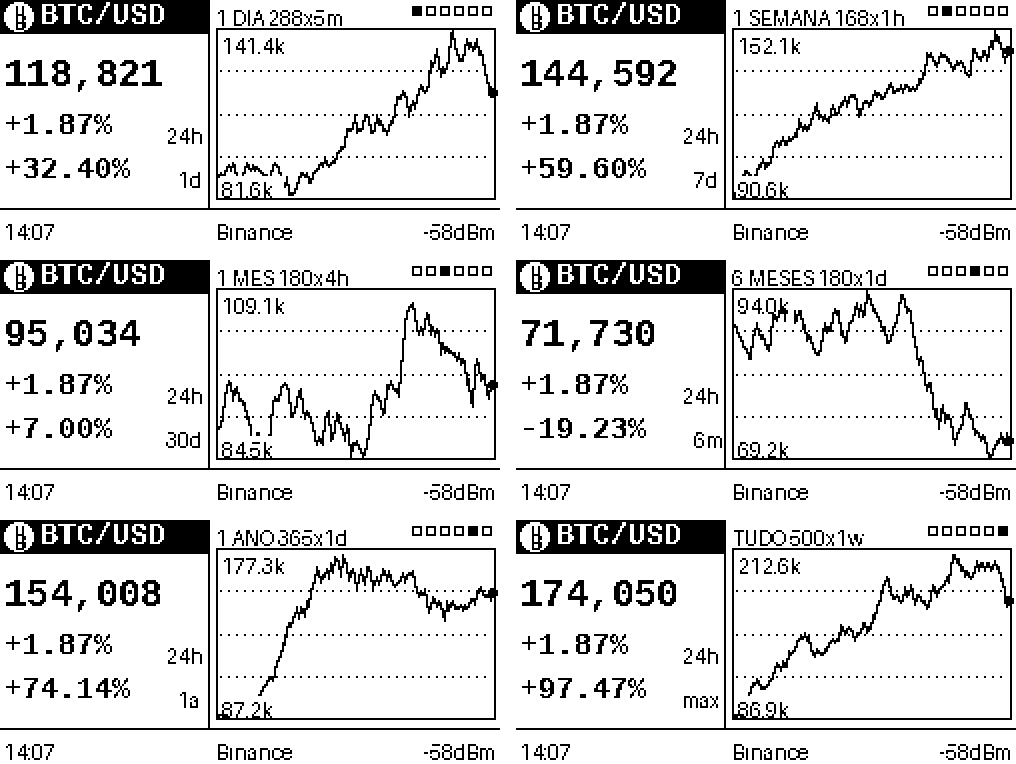
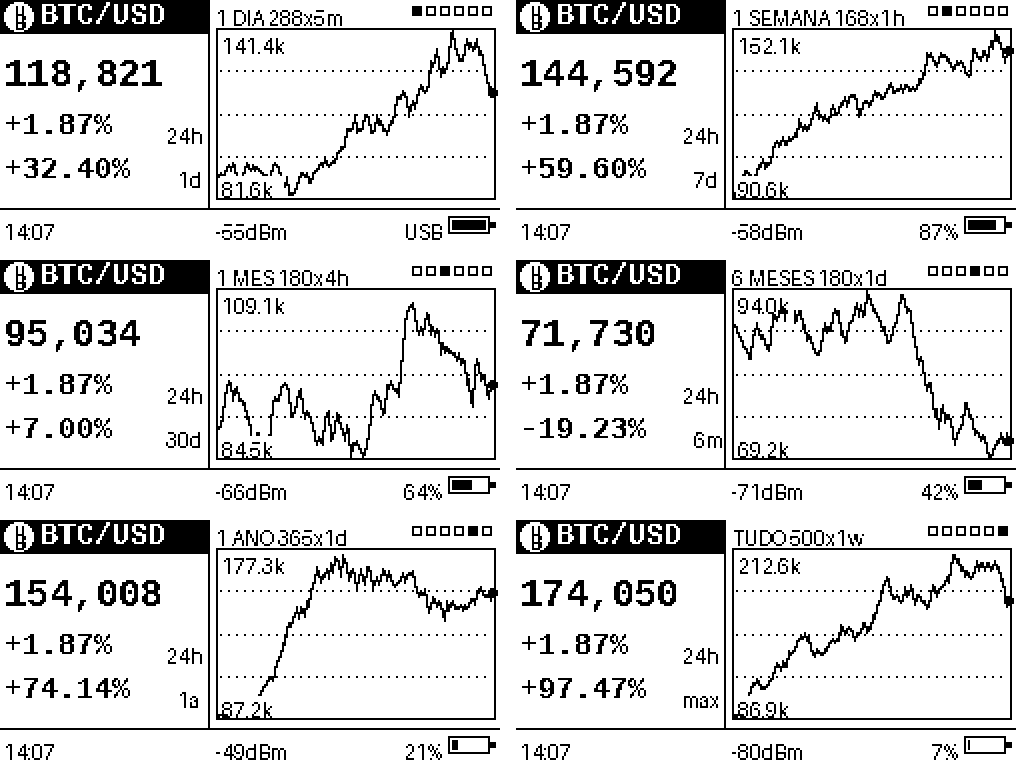
Indicador de bateria no rodape
Le a bateria no GPIO35 (divisor 1:2) com analogReadMilliVolts, media de
16 amostras, e converte para porcentagem interpolando uma tabela de
descarga LiPo. Icone de pilha + porcentagem no canto inferior direito;
mostra USB quando a tensao passa de 4.25 V.

Rodape reorganizado: relogio a esquerda, RSSI no centro, bateria a
direita. Atualiza junto com o refresh completo (5 min).

diff --git a/README.md b/README.md
@@ -6,7 +6,8 @@ tempo selecionáveis pelo botão da placa.
 
 ![Os seis períodos do gráfico](docs/preview.png)
 
-*Simulação do layout nos seis períodos (dados sintéticos, ampliado 2x).*
+*Simulação do layout nos seis períodos, com estados variados de bateria e sinal
+(dados sintéticos, ampliado 2x).*
 
 ## Funcionalidades
 
@@ -15,7 +16,8 @@ tempo selecionáveis pelo botão da placa.
 - Troca de período pelo botão da placa (GPIO39), sem recompilar
 - Variação percentual do período selecionado
 - Refresh **parcial** só na área do preço — rápido e com pouco ghosting
-- Relógio via NTP e indicador de sinal WiFi no rodapé
+- Indicador de bateria com porcentagem e ícone de pilha
+- Relógio via NTP e força do sinal WiFi no rodapé
 - Sem chave de API: usa os endpoints públicos da Binance
 
 ## Hardware
@@ -35,6 +37,7 @@ tempo selecionáveis pelo botão da placa.
 | RESET | 16 |
 | DC | 17 |
 | Botão | 39 |
+| Bateria (ADC) | 35 |
 
 Se o seu T5 usa outro painel (GDEM0213B74, GDEH0213B73, GxEPD2_213_flex), troque a
 linha `#define PANEL` no início do sketch.
@@ -119,7 +122,22 @@ parte do cabeçalho a cada atualização.
 **Regra prática para este painel em rotação 1:** `(122 − y)` e a altura precisam
 ser múltiplos de 8. A janela do preço usa `(0, 18, 104, 104)`, que fecha exato.
 
-### 2. Parser em streaming para os klines
+### 2. Porcentagem de bateria por tabela, não por regra de três
+
+A bateria chega ao **GPIO35** (ADC1, então continua funcionando com o WiFi
+ligado) por um divisor 1:2. A leitura usa `analogReadMilliVolts()`, que já aplica
+a calibração de fábrica gravada na eFuse — nada de fator empírico em cima do
+`analogRead()` cru. Como uma amostra isolada oscila uns 50 mV, o sketch tira a
+média de 16 leituras.
+
+Converter tensão em porcentagem de forma linear entre 4,2 e 3,3 V erra bastante:
+a célula LiPo passa metade da vida útil entre 3,9 e 3,7 V. O código interpola numa
+tabela de descarga (`LIPO[]`), o que dá um número bem mais próximo da realidade na
+região plana da curva.
+
+`BATT_DIV` é o ponto de ajuste fino se o multímetro discordar da leitura.
+
+### 3. Parser em streaming para os klines
 
 A resposta de `/klines` chega a ~55 KB no período de 1 dia. Carregar isso como
 String e jogar num parser de JSON compete por heap com o TLS e com o buffer do
@@ -136,6 +154,8 @@ consumo de RAM fica no array de floats, independente do tamanho da resposta.
 | Tela em branco ou com lixo | `#define PANEL` errado para o seu display. |
 | Parte do texto some no refresh parcial | Janela parcial desalinhada — veja a nota 1 acima. |
 | Erro de compilação em `GxEPD.h` | Está usando a biblioteca antiga; instale a GxEPD2. |
+| Bateria mostra `USB` sempre | Alimentação externa mantém o pino acima de 4,25 V — comportamento esperado com o cabo ligado. |
+| Porcentagem de bateria não bate com o multímetro | Ajuste `BATT_DIV` (padrão 2.0, do divisor 1M/1M). |
 
 ## Licença
 
